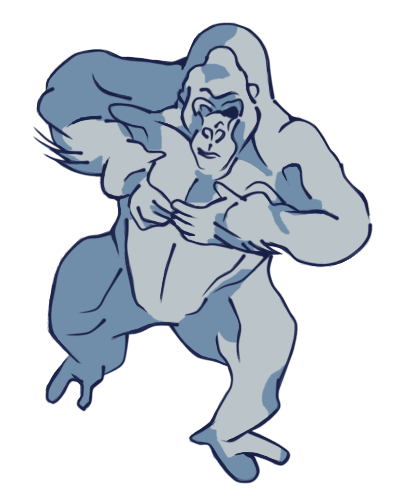
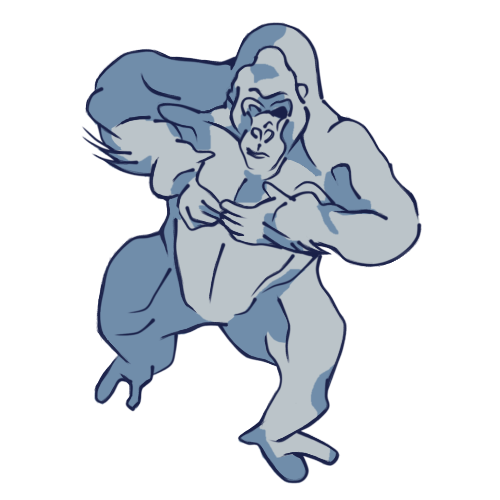
画像差し替え

Changed region(s): [[0.09, 0.03, 0.93, 0.99], [0.48, 0.6, 0.51, 0.63], [0.48, 0.06, 0.51, 0.09]]

diff --git a/goods/index.html b/goods/index.html
@@ -32,8 +32,10 @@
 
   <div class="content">
     <div class="container shop-link" style="text-align:center;">
-      <h1 class="my-5 text-center">Gorilla*4 Goods</h1>
-      <h6>本ページの画像は製作中確定稿を参考に作成されました。概ね同じ商品となる見込みですが、異なる部分が生じる可能性をご承知ください。</h6>
+      <div class="img">
+        <img src="images/title.jpg" alt="Image" class="img-fluid">
+      </div>
+  <h6>本ページの画像は製作中確定稿を参考に作成されました。概ね同じ商品となる見込みですが、異なる部分が生じる可能性をご承知ください。</h6>
       <br>
       <a class="btn-lg btn-dark"  href="https://docs.google.com/forms/d/e/1FAIpQLSfv3hhYqris3aRsJQE1fTRHGGzRZT63KFsM5JriQaJ0aKSmnQ/viewform?usp=sf_link" target="_blank">🦍予約フォーム🦍</a>
       <div class="scroll-box">
@@ -59,7 +61,7 @@
             <p>ゴリラゴリラゴリラゴリラのカジュアルは、野生的なイメージからは想像もつかないエレガンスを秘めています。胸元の刺繍のひっそりとした主張を楽しみましょう。</p>
           </div>
           <div class="img">
-            <img src="images/tshirt1.png" alt="Image" class="img-fluid">
+            <img src="images/tshirt1.jpg" alt="Image" class="img-fluid">
           </div>
         </div> <!-- .item -->
 
@@ -79,7 +81,7 @@
             <p>記念品らしいバックプリントはエレガンスの中のちょっとしたお茶目。劇場で一緒に過ごす8月の60分間を忘れないために。</p>
           </div>
           <div class="img">
-            <img src="images/tshirt2.png" alt="Image" class="img-fluid">
+            <img src="images/tshirt2.jpg" alt="Image" class="img-fluid">
           </div>
         </div> <!-- .item -->
 
